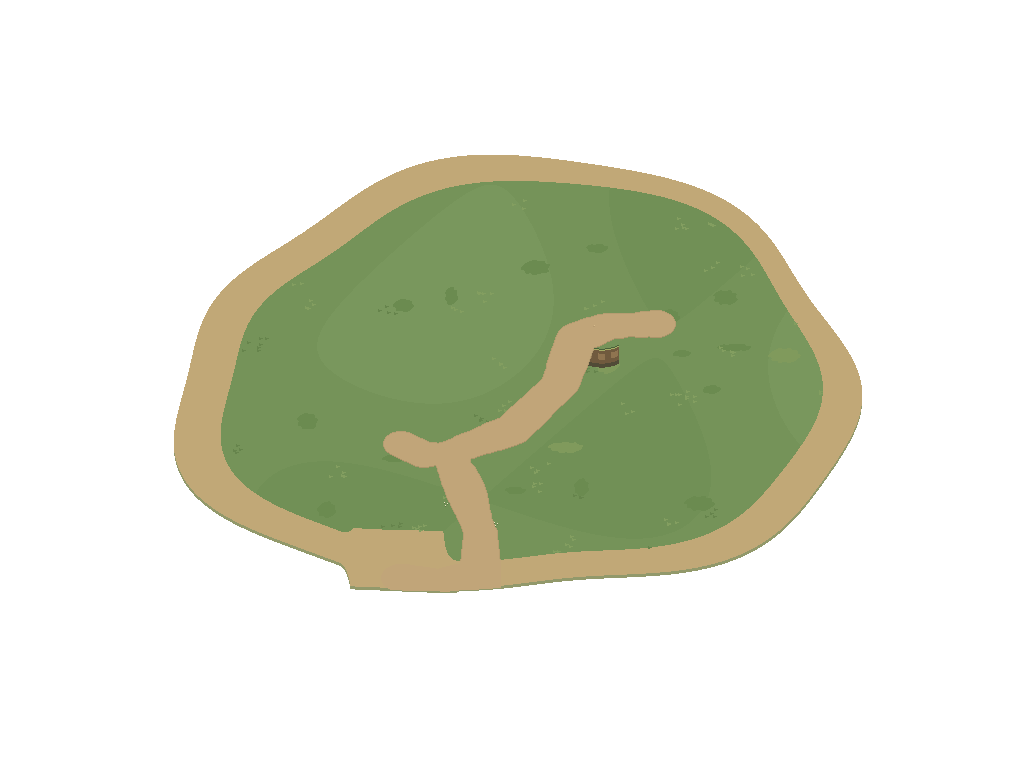
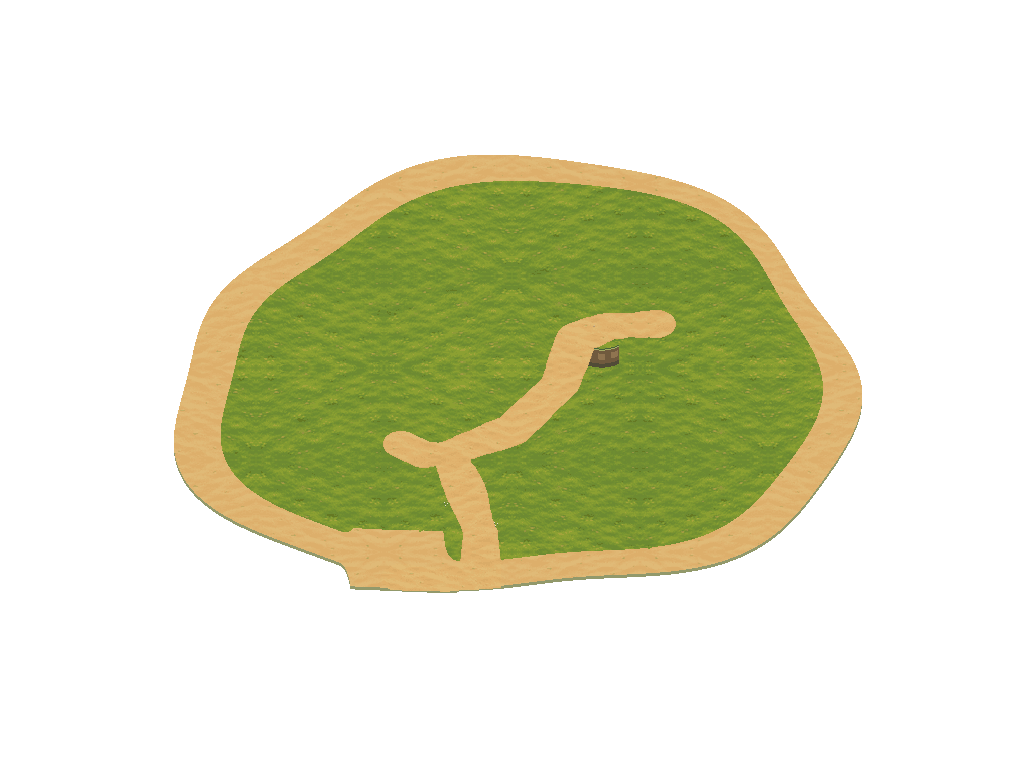
Carry regional ground materials to Pirate Point

Changed region(s): [[0.1562, 0.1875, 0.8438, 0.7812]]

diff --git a/frontend/scripts/pixel_art/ground.py b/frontend/scripts/pixel_art/ground.py
@@ -2,8 +2,22 @@
 from PIL import Image, ImageDraw
 from random import Random
 from subprocess import check_output
-from pathlib import Path
 from math import sin, cos
+from place_materials import paint_region
+
+GRASS = ((113,144,86,255), (117,147,89,255), (121,151,93,255))
+GRASS_PATCHES = ((107,139,80,255), (128,154,92,255))
+GRASS_TUFTS = ((102,132,76,255), (131,158,96,255))
+PATH = ((193,165,121,255), (172,148,106,255), (181,157,113,255))
+SAND = (193,168,119,255)
+
+
+def lighthouse_materials(image, root):
+    return paint_region(image, root, 'lighthouse_isle', {
+        'grass': (*GRASS, *GRASS_PATCHES, *GRASS_TUFTS),
+        'path': PATH,
+        'sand': (SAND,),
+    })
 
 def point(x,z):return (round(512+x*16),round(384+z*16*.72))
 
@@ -12,16 +26,13 @@ def ground(root):
     classes=check_output(['node','scripts/export-pixel-ground.js'],cwd=root)
     assert len(classes)==w*h
     im=Image.new('RGBA',(w,h));pix=im.load();rng=Random(87)
-    palette=['#719056','#759359','#79975d']  # three ordered tones: broad, calm bands (td-clean)
-    from PIL.ImageColor import getrgb
-    palette=[getrgb(c)+(255,) for c in palette]
     # Broad low-contrast patches, then deliberate small clusters; no pixel noise filter.
     for y in range(h):
         for x in range(w):
             c=classes[y*w+x]&3
             if c:
-                if c==1:color=(193,168,119,255)
-                else:color=palette[min(2,max(0,int((sin(x/61)+cos(y/53)+sin((x+y)/89)+3)/2)))]
+                if c==1:color=SAND
+                else:color=GRASS[min(2,max(0,int((sin(x/61)+cos(y/53)+sin((x+y)/89)+3)/2)))]
                 pix[x,y]=color
     d=ImageDraw.Draw(im)
     # Selective coast contact pixels: dry sand, wet edge, broken shoreline.
@@ -36,10 +47,10 @@ def ground(root):
         for yy in range(y-ry,y+ry):
             for xx in range(x-rx,x+rx):
                 if classes[yy*w+xx]&3==2 and ((xx-x)/rx)**2+((yy-y)/ry)**2 < .8 + .15*sin(xx*.6+yy*.9):
-                    pix[xx,yy]=(107,139,80,255) if i%3 else (128,154,92,255)
+                    pix[xx,yy]=GRASS_PATCHES[0] if i%3 else GRASS_PATCHES[1]
     # Tufts in small clusters of three to five (no scattered speckle).
     for i in range(190):
-        cx=rng.randrange(20,w-20);cy=rng.randrange(20,h-20);color='#66844c' if i%2 else '#839e60'
+        cx=rng.randrange(20,w-20);cy=rng.randrange(20,h-20);color=GRASS_TUFTS[0] if i%2 else GRASS_TUFTS[1]
         for k in range(rng.randrange(3,6)):
             x=cx+rng.randrange(-9,10);y=cy+rng.randrange(-5,6)
             if 2<=x<w-4 and 2<=y<h-5 and classes[y*w+x]&3==2:d.line([(x,y+2),(x,y),(x+1,y+2),(x+3,y+1)],fill=color)
@@ -66,10 +77,10 @@ def ground(root):
     for y in range(2,h-2):
         for x in range(2,w-2):
             if mp[x,y] and classes[y*w+x]&3:
-                pix[x,y]=(193,165,121,255)
+                pix[x,y]=PATH[0]
                 # One-pixel rim where the path meets grass: darker below, lighter at the sides.
-                if classes[(y+1)*w+x]&3==2 and not mp[x,y+1]:pix[x,y]=(172,148,106,255)
-                elif classes[y*w+x]&3==2 and (not mp[x-1,y] or not mp[x+1,y] or not mp[x,y-1]):pix[x,y]=(181,157,113,255)
+                if classes[(y+1)*w+x]&3==2 and not mp[x,y+1]:pix[x,y]=PATH[1]
+                elif classes[y*w+x]&3==2 and (not mp[x-1,y] or not mp[x+1,y] or not mp[x,y-1]):pix[x,y]=PATH[2]
     # A few pebble pairs on the path and flower clusters beside it, placed sparingly.
     for i in range(1400):
         x=rng.randrange(8,w-8);y=rng.randrange(8,h-8)

diff --git a/frontend/scripts/pixel_art/generate.py b/frontend/scripts/pixel_art/generate.py
@@ -5,7 +5,7 @@ from nature import tree, rock, shrub, flowers, undergrowth
 from buildings import cottage, boathouse, lighthouse
 from people import person
 from props import prop
-from ground import ground
+from ground import ground, lighthouse_materials
 from destinations import office, beacon, signal, pier, ship
 from nautical import item
 from settlements import assets as settlement_assets
@@ -40,7 +40,7 @@ assets.update(festival_assets())
 assets.update(pirate_assets())
 for name,image in assets.items():save(image,name,FOLDER)
 terrain=ground(ROOT)
-save(terrain,'ground',FOLDER)
+save(lighthouse_materials(terrain, ROOT),'ground',FOLDER)
 places=ROOT/'public'/'places';places.mkdir(exist_ok=True)
 for id in PATHS:save(place_ground(ROOT,id),id,places)
 save(chart(),'chart',places);save(chart(True),'chart-relit',places)

diff --git a/frontend/scripts/pixel_art/place_materials.py b/frontend/scripts/pixel_art/place_materials.py
@@ -2,6 +2,7 @@
 from PIL import Image
 
 REGIONAL_MATERIALS = {
+    'lighthouse_isle': ('sand', .46),
     'saltreach_harbor': ('path', .54),
     'smugglers_cove': ('sand', .50),
     'wreck_point': ('sand', .50),

diff --git a/frontend/ASSETS.md b/frontend/ASSETS.md
@@ -70,7 +70,7 @@ Every row is a distinct original PNG in `public/pixel/`. Dimensions and anchors 
 
 ## Edit, reproduce and inspect
 
-Saltreach Harbor, Smugglers’ Cove, Wreck Point and The Teeth use the original Home Islet grass, sand and paving from `public/village/terrain-materials-v1.png`. `scripts/pixel_art/place_materials.py` tones the materials for each location and bakes them onto the existing ground and path pixels. The indexed PNGs preserve the original 1024 × 768 dimensions and transparency, with no additional runtime textures.
+Lighthouse Isle (Pirate Point), Saltreach Harbor, Smugglers’ Cove, Wreck Point and The Teeth use the original Home Islet grass, sand and paving from `public/village/terrain-materials-v1.png`. `scripts/pixel_art/place_materials.py` tones the materials for each location and bakes them onto the existing ground and path pixels. The indexed PNGs preserve the original 1024 × 768 dimensions and transparency, with no additional runtime textures. The Lighthouse keeps the winding path sandy and applies the treatment to the world backdrop, while the title background still uses its original colour treatment.
 
 From `frontend/`, run `python3 scripts/pixel_art/generate.py`. Pillow is an offline authoring dependency; playing, building and JS testing require no Python. Sources live in `scripts/pixel_art/`: common.py, nature.py, buildings.py, people.py, props.py, ground.py, destinations.py, nautical.py, settlements.py, case_places.py, place_ground.py, chart.py and generate.py. The Node helpers export canonical land masks from terrain.js and places/surfaces.js; visual shorelines and walkability use the same functions.
 
